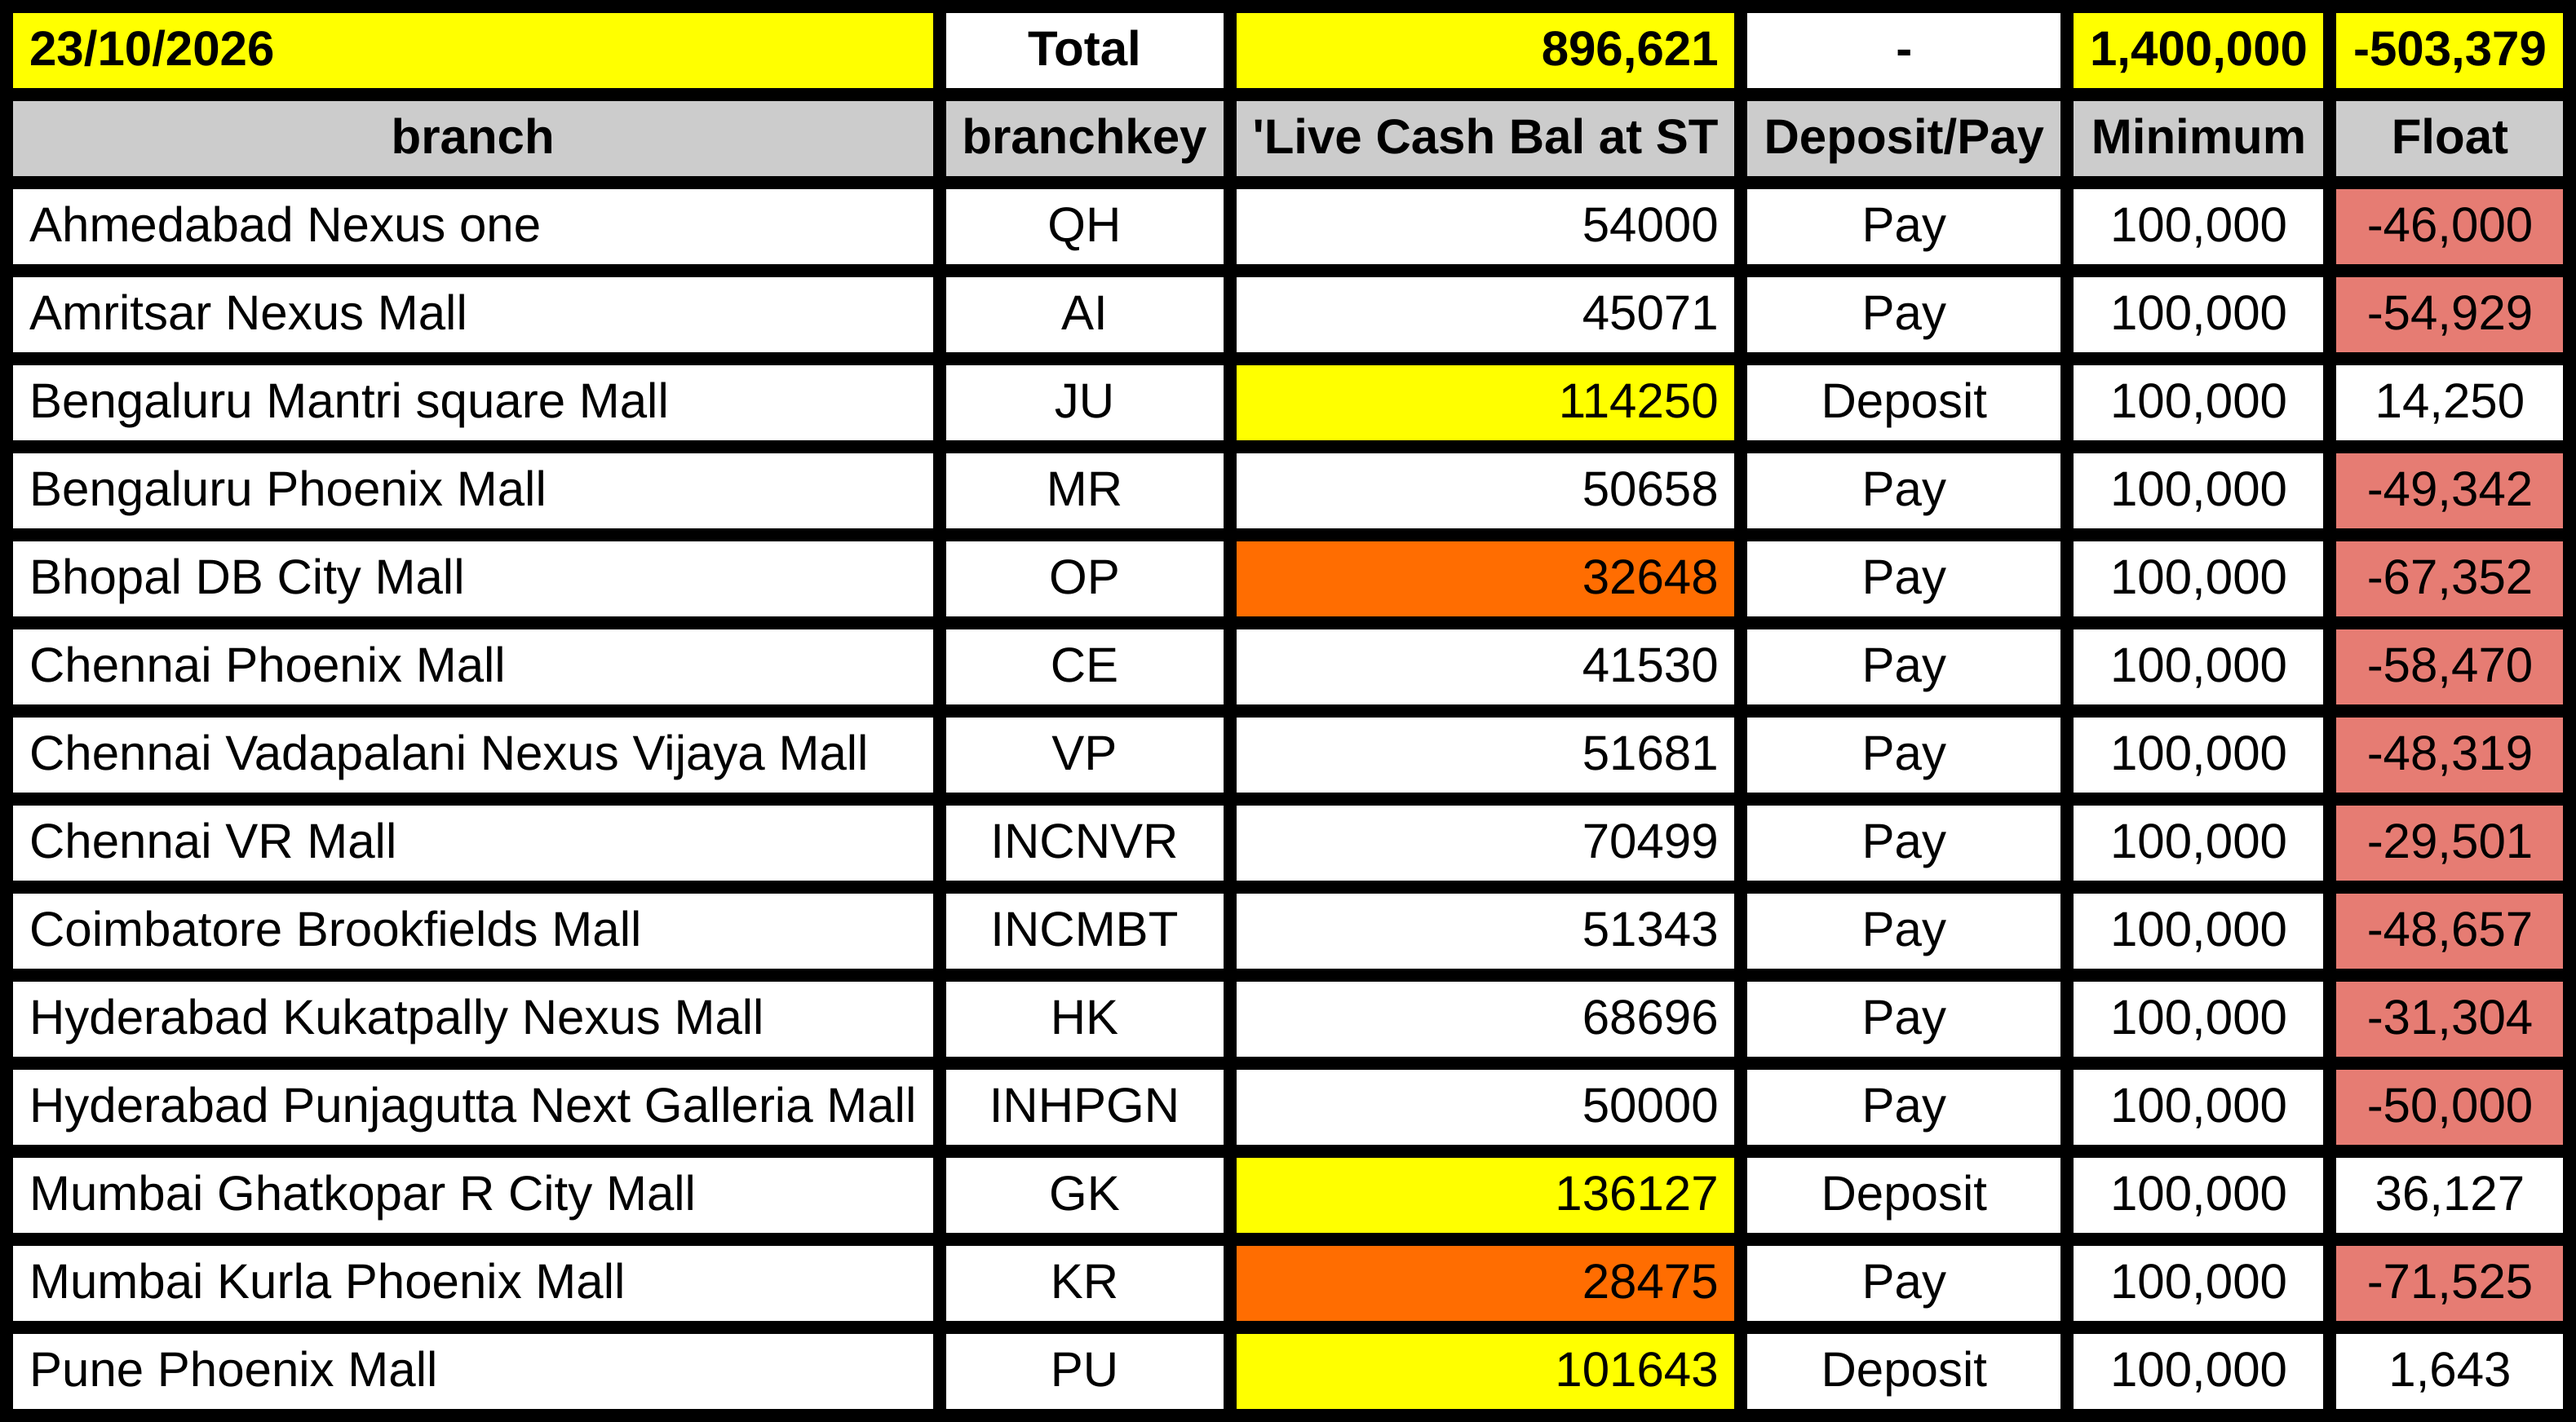
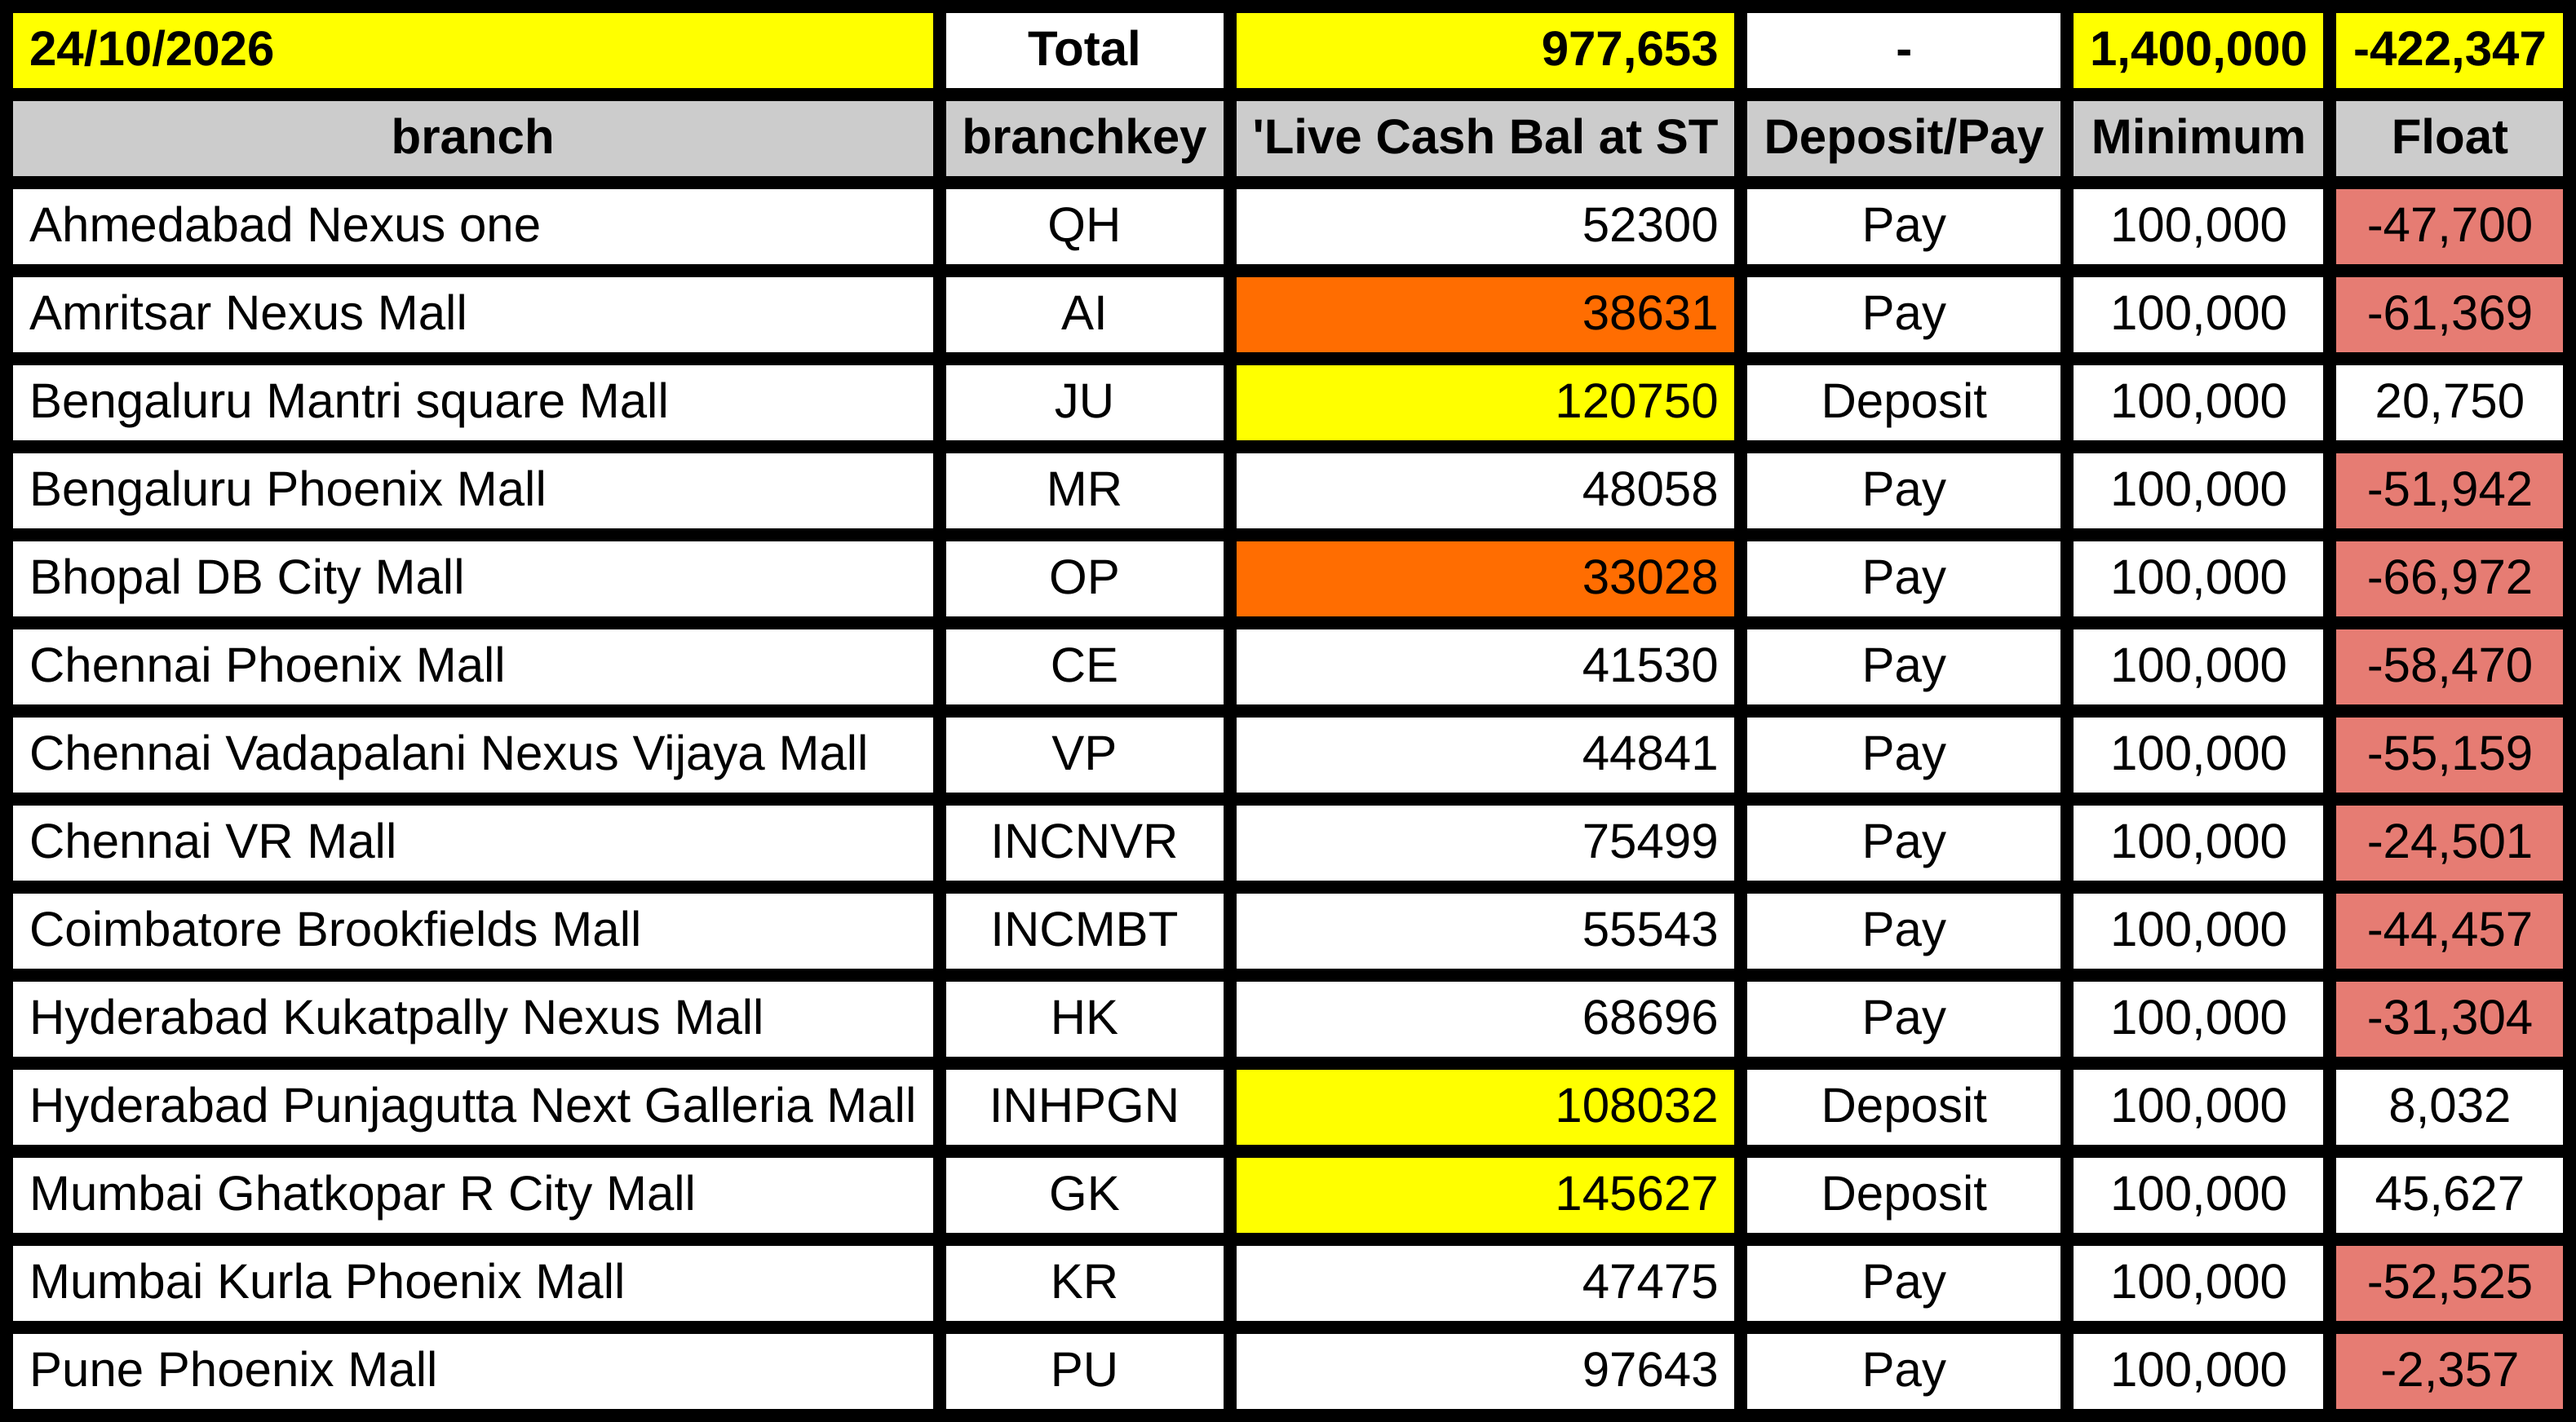
deploy: 1eb6ce62876c9d41067b4594acfaffc291ee4c8b

diff --git a/table.html b/table.html
@@ -21,7 +21,7 @@
           font-family: Arial, sans-serif;
           font-size: 30px;
           white-space: nowrap;
-        ">23/10/2026</td>
+        ">24/10/2026</td>
       
         <td style="
           background-color: #ffffff;
@@ -49,7 +49,7 @@
           font-family: Arial, sans-serif;
           font-size: 30px;
           white-space: nowrap;
-        ">896,621</td>
+        ">977,653</td>
       
         <td style="
           background-color: #ffffff;
@@ -91,7 +91,7 @@
           font-family: Arial, sans-serif;
           font-size: 30px;
           white-space: nowrap;
-        ">-503,379</td>
+        ">-422,347</td>
       </tr><tr>
         <td style="
           background-color: #cccccc;
@@ -217,7 +217,7 @@
           font-family: Arial, sans-serif;
           font-size: 30px;
           white-space: nowrap;
-        ">54000</td>
+        ">52300</td>
       
         <td style="
           background-color: #ffffff;
@@ -259,7 +259,7 @@
           font-family: Arial, sans-serif;
           font-size: 30px;
           white-space: nowrap;
-        ">-46,000</td>
+        ">-47,700</td>
       </tr><tr>
         <td style="
           background-color: #ffffff;
@@ -290,7 +290,7 @@
         ">AI</td>
       
         <td style="
-          background-color: #ffffff;
+          background-color: #ff6d01;
           color: #000000;
           font-weight: normal;
           font-style: normal;
@@ -301,7 +301,7 @@
           font-family: Arial, sans-serif;
           font-size: 30px;
           white-space: nowrap;
-        ">45071</td>
+        ">38631</td>
       
         <td style="
           background-color: #ffffff;
@@ -343,7 +343,7 @@
           font-family: Arial, sans-serif;
           font-size: 30px;
           white-space: nowrap;
-        ">-54,929</td>
+        ">-61,369</td>
       </tr><tr>
         <td style="
           background-color: #ffffff;
@@ -385,7 +385,7 @@
           font-family: Arial, sans-serif;
           font-size: 30px;
           white-space: nowrap;
-        ">114250</td>
+        ">120750</td>
       
         <td style="
           background-color: #ffffff;
@@ -427,7 +427,7 @@
           font-family: Arial, sans-serif;
           font-size: 30px;
           white-space: nowrap;
-        ">14,250</td>
+        ">20,750</td>
       </tr><tr>
         <td style="
           background-color: #ffffff;
@@ -469,7 +469,7 @@
           font-family: Arial, sans-serif;
           font-size: 30px;
           white-space: nowrap;
-        ">50658</td>
+        ">48058</td>
       
         <td style="
           background-color: #ffffff;
@@ -511,7 +511,7 @@
           font-family: Arial, sans-serif;
           font-size: 30px;
           white-space: nowrap;
-        ">-49,342</td>
+        ">-51,942</td>
       </tr><tr>
         <td style="
           background-color: #ffffff;
@@ -553,7 +553,7 @@
           font-family: Arial, sans-serif;
           font-size: 30px;
           white-space: nowrap;
-        ">32648</td>
+        ">33028</td>
       
         <td style="
           background-color: #ffffff;
@@ -595,7 +595,7 @@
           font-family: Arial, sans-serif;
           font-size: 30px;
           white-space: nowrap;
-        ">-67,352</td>
+        ">-66,972</td>
       </tr><tr>
         <td style="
           background-color: #ffffff;
@@ -721,7 +721,7 @@
           font-family: Arial, sans-serif;
           font-size: 30px;
           white-space: nowrap;
-        ">51681</td>
+        ">44841</td>
       
         <td style="
           background-color: #ffffff;
@@ -763,7 +763,7 @@
           font-family: Arial, sans-serif;
           font-size: 30px;
           white-space: nowrap;
-        ">-48,319</td>
+        ">-55,159</td>
       </tr><tr>
         <td style="
           background-color: #ffffff;
@@ -805,7 +805,7 @@
           font-family: Arial, sans-serif;
           font-size: 30px;
           white-space: nowrap;
-        ">70499</td>
+        ">75499</td>
       
         <td style="
           background-color: #ffffff;
@@ -847,7 +847,7 @@
           font-family: Arial, sans-serif;
           font-size: 30px;
           white-space: nowrap;
-        ">-29,501</td>
+        ">-24,501</td>
       </tr><tr>
         <td style="
           background-color: #ffffff;
@@ -889,7 +889,7 @@
           font-family: Arial, sans-serif;
           font-size: 30px;
           white-space: nowrap;
-        ">51343</td>
+        ">55543</td>
       
         <td style="
           background-color: #ffffff;
@@ -931,7 +931,7 @@
           font-family: Arial, sans-serif;
           font-size: 30px;
           white-space: nowrap;
-        ">-48,657</td>
+        ">-44,457</td>
       </tr><tr>
         <td style="
           background-color: #ffffff;
@@ -1046,7 +1046,7 @@
         ">INHPGN</td>
       
         <td style="
-          background-color: #ffffff;
+          background-color: #ffff00;
           color: #000000;
           font-weight: normal;
           font-style: normal;
@@ -1057,7 +1057,7 @@
           font-family: Arial, sans-serif;
           font-size: 30px;
           white-space: nowrap;
-        ">50000</td>
+        ">108032</td>
       
         <td style="
           background-color: #ffffff;
@@ -1071,7 +1071,7 @@
           font-family: Arial, sans-serif;
           font-size: 30px;
           white-space: nowrap;
-        ">Pay</td>
+        ">Deposit</td>
       
         <td style="
           background-color: #ffffff;
@@ -1088,7 +1088,7 @@
         ">100,000</td>
       
         <td style="
-          background-color: #e67c73;
+          background-color: #ffffff;
           color: #000000;
           font-weight: normal;
           font-style: normal;
@@ -1099,7 +1099,7 @@
           font-family: Arial, sans-serif;
           font-size: 30px;
           white-space: nowrap;
-        ">-50,000</td>
+        ">8,032</td>
       </tr><tr>
         <td style="
           background-color: #ffffff;
@@ -1141,7 +1141,7 @@
           font-family: Arial, sans-serif;
           font-size: 30px;
           white-space: nowrap;
-        ">136127</td>
+        ">145627</td>
       
         <td style="
           background-color: #ffffff;
@@ -1183,7 +1183,7 @@
           font-family: Arial, sans-serif;
           font-size: 30px;
           white-space: nowrap;
-        ">36,127</td>
+        ">45,627</td>
       </tr><tr>
         <td style="
           background-color: #ffffff;
@@ -1214,7 +1214,7 @@
         ">KR</td>
       
         <td style="
-          background-color: #ff6d01;
+          background-color: #ffffff;
           color: #000000;
           font-weight: normal;
           font-style: normal;
@@ -1225,7 +1225,7 @@
           font-family: Arial, sans-serif;
           font-size: 30px;
           white-space: nowrap;
-        ">28475</td>
+        ">47475</td>
       
         <td style="
           background-color: #ffffff;
@@ -1267,7 +1267,7 @@
           font-family: Arial, sans-serif;
           font-size: 30px;
           white-space: nowrap;
-        ">-71,525</td>
+        ">-52,525</td>
       </tr><tr>
         <td style="
           background-color: #ffffff;
@@ -1298,7 +1298,7 @@
         ">PU</td>
       
         <td style="
-          background-color: #ffff00;
+          background-color: #ffffff;
           color: #000000;
           font-weight: normal;
           font-style: normal;
@@ -1309,7 +1309,7 @@
           font-family: Arial, sans-serif;
           font-size: 30px;
           white-space: nowrap;
-        ">101643</td>
+        ">97643</td>
       
         <td style="
           background-color: #ffffff;
@@ -1323,7 +1323,7 @@
           font-family: Arial, sans-serif;
           font-size: 30px;
           white-space: nowrap;
-        ">Deposit</td>
+        ">Pay</td>
       
         <td style="
           background-color: #ffffff;
@@ -1340,7 +1340,7 @@
         ">100,000</td>
       
         <td style="
-          background-color: #ffffff;
+          background-color: #e67c73;
           color: #000000;
           font-weight: normal;
           font-style: normal;
@@ -1351,7 +1351,7 @@
           font-family: Arial, sans-serif;
           font-size: 30px;
           white-space: nowrap;
-        ">1,643</td>
+        ">-2,357</td>
       </tr>
   </table>
 </body>
